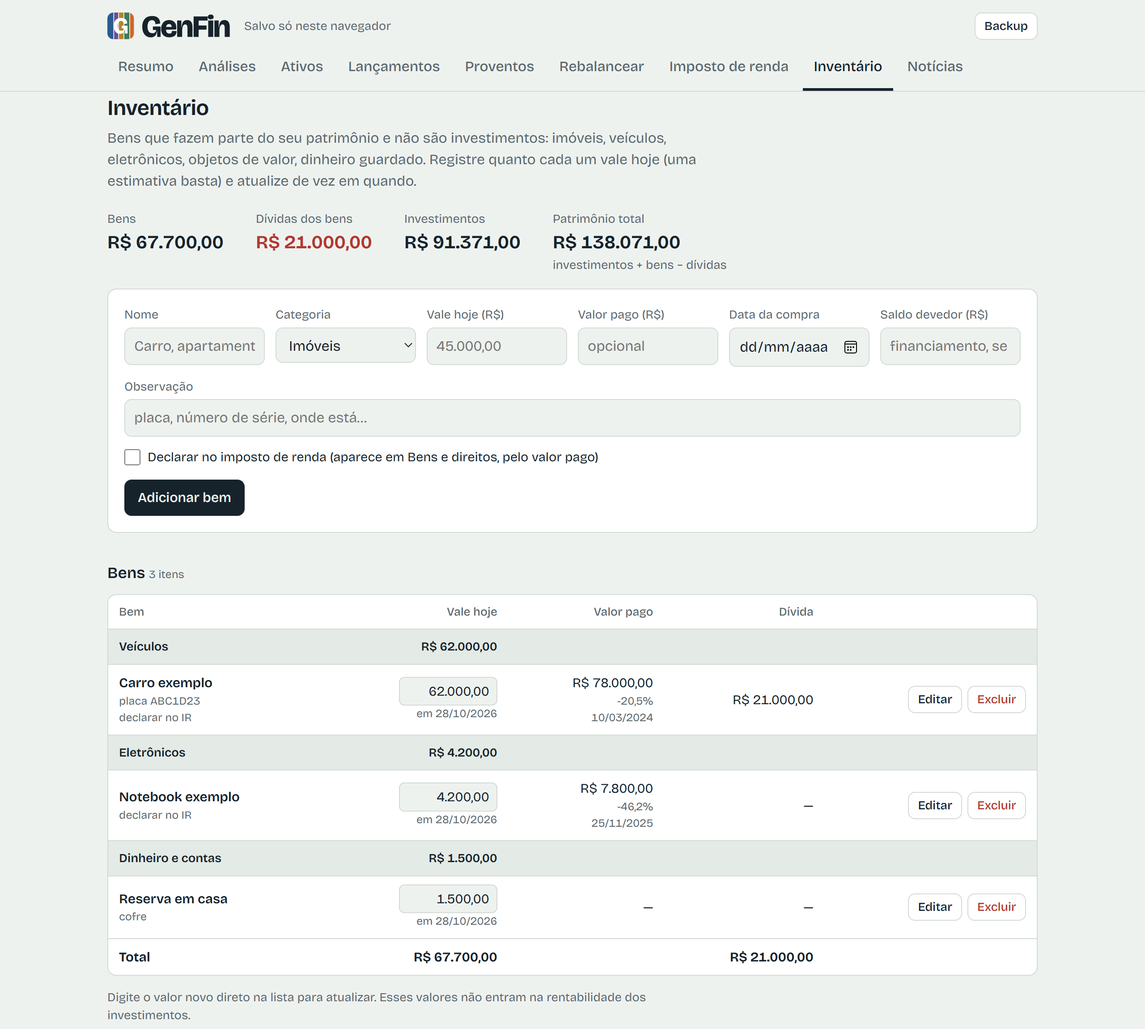
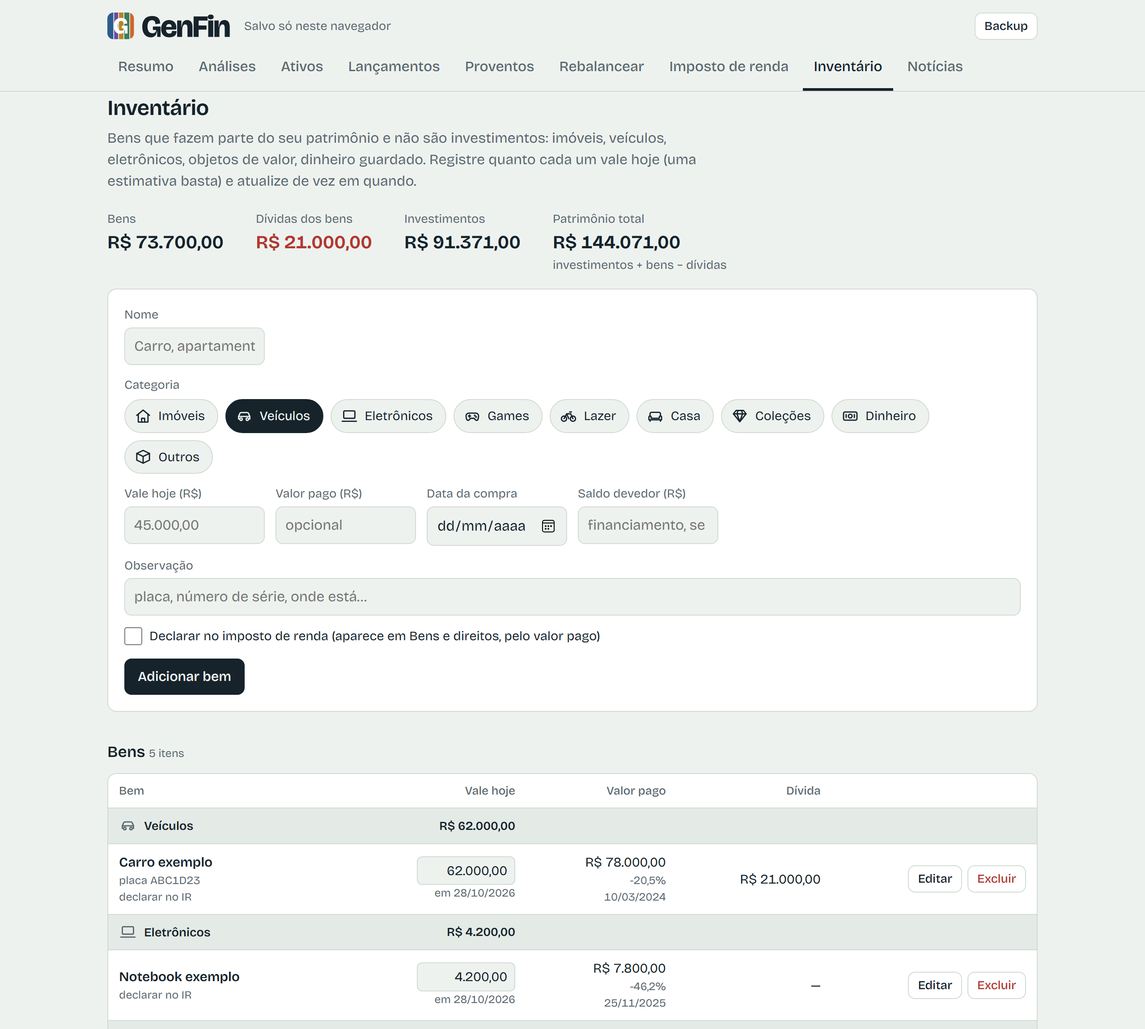
Ícones nas categorias do inventário e IA sem chave no aparelho
Inventário
- Ícone para cada categoria e duas novas: Videogames e jogos, Lazer e esporte
- Categoria escolhida por botões com ícone (nomes curtos), lembrando a última
- Cabeçalho de cada grupo com o ícone; caixa "declarar no IR" no tamanho certo

IA
- api/resumo.js: função da Vercel que resume a carteira pelo Groq com a chave
  na variável de ambiente GROQ_API_KEY; aceita só o formato de dadosParaIA,
  recusa valores em reais, instrução fixa no servidor, CORS só para o site e
  o app Android, não guarda nada
- O app usa a função quando não há chave própria (o app Android e o arquivo
  local chamam o endereço publicado); a chave própria continua opcional
- Sem GROQ_API_KEY configurada, avisa e abre a opção da chave própria
- 15 testes novos (138), incluindo tests/api.test.js

diff --git a/carteira.html b/carteira.html
@@ -141,8 +141,18 @@ tr.sel{background:var(--soft)}
 .imp-lista li{margin:6px 0}
 #dlg-importar select{border:1px solid var(--line);border-radius:6px;padding:4px 8px;background:var(--bg);color:var(--ink)}
 
+/* Inventário: categorias com ícone */
+.ic-bem{width:20px;height:20px;fill:none;stroke:currentColor;stroke-width:1.7;stroke-linecap:round;stroke-linejoin:round;flex:none}
+tr.grupo .ic-bem{vertical-align:-5px;margin-right:8px;color:var(--muted)}
+.chips-cat{grid-column:1/-1;border:0;padding:0;margin:0;display:flex;flex-wrap:wrap;gap:8px;min-width:0}
+.chips-cat legend{font-size:.85rem;color:var(--muted);padding:0;margin-bottom:6px}
+label.chip{position:relative;flex-direction:row;align-items:center;gap:7px;border:1px solid var(--line);border-radius:999px;
+  padding:7px 14px 7px 10px;background:var(--bg);color:var(--ink);font-size:.9rem;cursor:pointer;-webkit-tap-highlight-color:transparent}
+label.chip input{position:absolute;opacity:0;width:1px;height:1px;pointer-events:none}
+label.chip:has(input:checked){background:var(--ink);color:var(--bg);border-color:var(--ink)}
+label.chip:has(input:focus-visible){outline:2px solid var(--focus);outline-offset:2px}
 .marca-ir{flex-direction:row;align-items:center;gap:8px;margin-top:12px;font-size:.9rem;color:var(--ink)}
-.marca-ir input{width:18px;height:18px;margin:0}
+.marca-ir input{width:20px;height:20px;margin:0;padding:0;flex:none;accent-color:var(--ink)}
 
 /* Análises */
 .leituras{display:grid;gap:10px;max-width:760px}
@@ -1210,13 +1220,28 @@ async function modeloGroq(chave){
     { const m = ids.find(id=>p.test(id)); if(m) return m; }
   return ids.find(id=>!/whisper|guard|tts|embed|playai|compound|prompt/i.test(id)) || null;
 }
+// Sem chave própria, o resumo vem da função do GenFin na Vercel (que guarda a chave do Groq);
+// no app Android e no arquivo local, a página não está na Vercel, então usa o endereço publicado
+const SERVIDOR = "https://genfin-rose.vercel.app";
+const baseServidor = () => (!nativo() && /\.vercel\.app$/.test(location.hostname)) ? location.origin : SERVIDOR;
+let iaSemServidor = false;   // a função respondeu que não tem chave configurada: mostra a opção de colar a própria
+async function resumoPeloServidor(){
+  let r; try{ r = await fetch(baseServidor()+"/api/resumo", {method:"POST", headers:{"Content-Type":"application/json"}, body: JSON.stringify(dadosParaIA()), ...comPrazo()}); }
+  catch(e){ throw erroCot("rede"); }
+  let j = null; try{ j = await r.json(); }catch(e){}
+  if(r.status===503 && j && j.erro==="sem_chave"){ iaSemServidor = true; throw erroCot("semServidor"); }
+  if(r.status===429) throw erroCot("limite");
+  if(!r.ok || !j || !j.texto) throw erroCot("servico");
+  return {texto: String(j.texto).trim(), modelo: j.modelo || "Groq"};
+}
 async function gerarResumoIA(){
   if(gerandoIA) return;
-  const chave = lerLS(LS_GROQ); if(!chave){ toast("Cole a chave do Groq antes de gerar o resumo."); return; }
   if(demo){ toast("No modo exemplo os dados são fictícios; saia do exemplo para gerar o resumo."); return; }
+  const chave = lerLS(LS_GROQ);
   gerandoIA = true; if(abaAtual==="analises") render("analises");
   let res;
   try{
+    if(!chave){ res = Object.assign(await resumoPeloServidor(), {em: Date.now()}); gravarLS(LS_IA, JSON.stringify(res)); return; }
     const modelo = await modeloGroq(chave);
     if(!modelo) throw erroCot("servico");
     let r; try{
@@ -1231,7 +1256,8 @@ async function gerarResumoIA(){
     res = {texto: String(texto).trim(), modelo, em: Date.now()};
     gravarLS(LS_IA, JSON.stringify(res));
   }catch(e){
-    toast({chave:"O Groq recusou a chave. Confira a chave e cole de novo.", limite:"O Groq atingiu o limite do plano gratuito. Tente daqui a pouco.", rede:"Não foi possível acessar o Groq. Confira a internet."}[e.tipo] || "O Groq não respondeu como esperado. Tente de novo.");
+    toast({chave:"O Groq recusou a chave. Confira a chave e cole de novo.", limite:"O Groq atingiu o limite do plano gratuito. Tente daqui a pouco.", rede:"Não foi possível acessar a IA. Confira a internet.",
+      semServidor:"A IA do GenFin ainda não foi configurada. Você pode colar a sua própria chave do Groq abaixo."}[e.tipo] || "A IA não respondeu como esperado. Tente de novo.");
   }finally{ gerandoIA = false; if(abaAtual==="analises") render("analises"); }
 }
 // Texto da IA: escapado e com os tópicos "- " virando lista
@@ -1258,17 +1284,18 @@ function rAnalises(el){
 
   <h3>Resumo com IA</h3>
   <div class="card ia">
-    ${chave ? `<div class="cotbar"><button class="btn pri" data-act="gerar-ia"${gerandoIA?" disabled":""}>${gerandoIA?"Gerando resumo…":(ult?"Gerar de novo":"Gerar resumo")}</button>
+    ${!ult ? `<p class="nota" style="margin-top:0">Um texto curto escrito por IA a partir das leituras acima, pelo <a href="https://groq.com" target="_blank" rel="noopener noreferrer">Groq</a>, gratuito.</p>` : ""}
+    <div class="cotbar"><button class="btn pri" data-act="gerar-ia"${gerandoIA?" disabled":""}>${gerandoIA?"Gerando resumo…":(ult?"Gerar de novo":"Gerar resumo")}</button>
       <span class="nota">${ult ? `Gerado ${new Date(ult.em).toLocaleDateString("pt-BR")} às ${new Date(ult.em).toLocaleTimeString("pt-BR",{hour:"2-digit",minute:"2-digit"})}, modelo ${esc(ult.modelo)}` : "Leva alguns segundos."}</span></div>
-      ${ult ? `<div class="texto-ia">${textoIA(ult.texto)}</div><p class="nota">Texto gerado por IA a partir dos dados abaixo; pode conter erros. Confira antes de decidir qualquer coisa.</p>` : ""}`
-    : `<p class="nota" style="margin-top:0">Opcional: um texto curto escrito por IA a partir das leituras acima, pelo <a href="https://console.groq.com/keys" target="_blank" rel="noopener noreferrer">Groq</a>, que tem plano gratuito. Crie uma chave lá e cole aqui. Ela fica só neste navegador.</p>`}
-    <details class="chave"${chave?"":" open"}>
-      <summary>${chave?"Chave do Groq configurada":"Configurar a chave do Groq"}</summary>
+    ${ult ? `<div class="texto-ia">${textoIA(ult.texto)}</div><p class="nota">Texto gerado por IA a partir dos dados abaixo; pode conter erros. Confira antes de decidir qualquer coisa.</p>` : ""}
+    <details class="chave"${iaSemServidor && !chave ? " open" : ""}>
+      <summary>${chave?"Usando a sua chave do Groq":"Usar a minha própria chave do Groq (opcional)"}</summary>
+      <p class="nota">Sem chave própria, o resumo passa pelo servidor do GenFin, que já tem uma. Com a sua, criada em <a href="https://console.groq.com/keys" target="_blank" rel="noopener noreferrer">console.groq.com</a>, o app fala direto com o Groq. Ela fica só neste aparelho.</p>
       <div class="linha-chave"><input id="chave-groq" type="password" autocomplete="off" spellcheck="false" placeholder="${chave?"Cole uma nova chave para trocar":"Cole a chave aqui"}" aria-label="Chave do Groq">
         <button class="btn" data-act="salvar-groq">Salvar chave</button>${chave?`<button class="btn perigo" data-act="remover-groq" data-armar="Confirmar">Remover</button>`:""}</div>
     </details>
-    <details class="enviado"><summary>O que vai para o Groq</summary>
-      <p class="nota">Só percentuais, códigos dos ativos e as leituras na versão sem valores em reais. Quantidades, preços e o patrimônio não saem do aparelho.</p>
+    <details class="enviado"><summary>O que vai para a IA</summary>
+      <p class="nota">Só percentuais, códigos dos ativos e as leituras na versão sem valores em reais. Quantidades, preços, bens e o patrimônio não saem do aparelho. Sem chave própria, os dados passam pelo servidor do GenFin na Vercel, que repassa ao Groq e não guarda nada.</p>
       <pre>${esc(JSON.stringify(dadosParaIA(), null, 1))}</pre>
     </details>
   </div>`;
@@ -1703,17 +1730,31 @@ function rIR(el){
 /* ---------- Inventário ---------- */
 // Bens que fazem parte do patrimônio e não são investimentos. O valor é a estimativa de hoje;
 // o valor pago é o que entra na declaração do IR (bens e direitos vão pelo custo de aquisição).
+// ic: traços de um ícone 24x24 (mesmo estilo da barra de navegação)
 const CATEGORIAS_BEM = {
-  imovel:     { nome:"Imóveis",                      ir:"01 – Bens imóveis (código conforme o tipo: apartamento, casa, terreno…)" },
-  veiculo:    { nome:"Veículos",                     ir:"02 – Bens móveis, código 01 (veículo automotor terrestre)" },
-  eletronico: { nome:"Eletrônicos",                  ir:"02 – Bens móveis (outros)" },
-  casa:       { nome:"Móveis e eletrodomésticos",    ir:"02 – Bens móveis (outros)" },
-  valor:      { nome:"Joias, arte e coleções",       ir:"02 – Bens móveis (joia, quadro, objeto de arte ou de coleção)" },
-  dinheiro:   { nome:"Dinheiro e contas",            ir:"06 – Depósitos à vista e numerário" },
-  outro:      { nome:"Outros",                       ir:"Conforme o tipo do bem" }
+  imovel:     { nome:"Imóveis", curto:"Imóveis", ir:"01 – Bens imóveis (código conforme o tipo: apartamento, casa, terreno…)",
+                ic:'<path d="M3.5 11L12 4l8.5 7"/><path d="M5.5 9.5V20h13V9.5"/><path d="M10 20v-5h4v5"/>' },
+  veiculo:    { nome:"Veículos", curto:"Veículos", ir:"02 – Bens móveis, código 01 (veículo automotor terrestre)",
+                ic:'<path d="M4.5 16v-3.5l1.7-4a2 2 0 0 1 1.8-1.2h8a2 2 0 0 1 1.8 1.2l1.7 4V16"/><path d="M4.5 12.5h15"/><circle cx="7.8" cy="16.2" r="1.7"/><circle cx="16.2" cy="16.2" r="1.7"/>' },
+  eletronico: { nome:"Eletrônicos", curto:"Eletrônicos", ir:"02 – Bens móveis (outros)",
+                ic:'<rect x="4.5" y="5" width="15" height="10" rx="1.5"/><path d="M2.5 19h19"/>' },
+  games:      { nome:"Videogames e jogos", curto:"Games", ir:"02 – Bens móveis (outros)",
+                ic:'<path d="M7.5 8h9a4 4 0 0 1 3.9 4.9l-.7 3.2a2 2 0 0 1-3.4 1L14.5 15h-5l-1.8 2.1a2 2 0 0 1-3.4-1l-.7-3.2A4 4 0 0 1 7.5 8z"/><path d="M8.2 10.5v3M6.7 12h3"/><circle cx="15.3" cy="11.3" r=".5"/><circle cx="17" cy="13" r=".5"/>' },
+  lazer:      { nome:"Lazer e esporte", curto:"Lazer", ir:"02 – Bens móveis (outros)",
+                ic:'<circle cx="6" cy="15.5" r="3.5"/><circle cx="18" cy="15.5" r="3.5"/><path d="M6 15.5l3.5-6.5h5.5l3 6.5M9.5 9l3 6.5M13.5 6.5h2.5"/>' },
+  casa:       { nome:"Móveis e eletrodomésticos", curto:"Casa", ir:"02 – Bens móveis (outros)",
+                ic:'<path d="M5 11V9a2 2 0 0 1 2-2h10a2 2 0 0 1 2 2v2"/><path d="M3.5 17v-3.5a1.5 1.5 0 0 1 3 0V15h11v-1.5a1.5 1.5 0 0 1 3 0V17z"/><path d="M5 17v2M19 17v2"/>' },
+  valor:      { nome:"Joias, arte e coleções", curto:"Coleções", ir:"02 – Bens móveis (joia, quadro, objeto de arte ou de coleção)",
+                ic:'<path d="M7 4.5h10l3.5 4.5L12 19.5 3.5 9z"/><path d="M3.5 9h17M9.5 4.5L8.3 9l3.7 10.5L15.7 9l-1.2-4.5"/>' },
+  dinheiro:   { nome:"Dinheiro e contas", curto:"Dinheiro", ir:"06 – Depósitos à vista e numerário",
+                ic:'<rect x="3" y="6.5" width="18" height="11" rx="2"/><circle cx="12" cy="12" r="2.5"/><path d="M6.5 10v4M17.5 10v4"/>' },
+  outro:      { nome:"Outros", curto:"Outros", ir:"Conforme o tipo do bem",
+                ic:'<path d="M3.5 7.5L12 3.5l8.5 4v9L12 20.5l-8.5-4z"/><path d="M3.5 7.5L12 11.5l8.5-4M12 11.5v9"/>' }
 };
+const iconeBem = k => `<svg class="ic-bem" viewBox="0 0 24 24" aria-hidden="true">${(CATEGORIAS_BEM[k]||CATEGORIAS_BEM.outro).ic}</svg>`;
 const ORDEM_BENS = Object.keys(CATEGORIAS_BEM);
 let editandoBem = null;
+const LS_ULT_CAT = "genfin-ultima-categoria";   // o próximo bem já vem na categoria do último
 function totaisBens(){
   const bens = S.bens||[], valor = bens.reduce((s,b)=>s+(b.valor||0),0), dividas = bens.reduce((s,b)=>s+(b.divida||0),0);
   return {valor, dividas, liquido: valor-dividas};
@@ -1737,7 +1778,7 @@ function salvarBem(f){
   const atual = editandoBem && S.bens.find(b=>b.id===editandoBem);
   if(atual) Object.assign(atual, d, {valorEm: atual.valor!==d.valor ? hojeISO() : atual.valorEm});
   else S.bens.push(Object.assign({id:uid(), criado:Date.now(), valorEm:hojeISO()}, d));
-  const nome = d.nome; editandoBem = null;
+  const nome = d.nome; editandoBem = null; gravarLS(LS_ULT_CAT, d.categoria);
   salvar("bens"); render("inventario");
   const m = $("#bem-msg"); m.className = "ok"; m.textContent = `${nome} ${atual?"atualizado":"adicionado"}.`;
 }
@@ -1756,12 +1797,14 @@ function excluirBem(id){
 function rInventario(el){
   const bens = S.bens||[], t = totaisBens(), inv = calcular().total;
   const ed = editandoBem && bens.find(b=>b.id===editandoBem); if(!ed) editandoBem = null;
-  const opts = ORDEM_BENS.map(k=>`<option value="${k}"${ed&&ed.categoria===k?" selected":""}>${CATEGORIAS_BEM[k].nome}</option>`).join("");
+  // Categoria: botões com ícone (mais fáceis de tocar que uma lista), um grupo de rádio
+  const catSel = ed ? ed.categoria : (lerLS(LS_ULT_CAT) || "veiculo");
+  const opts = ORDEM_BENS.map(k=>`<label class="chip"><input type="radio" name="categoria" value="${k}"${catSel===k?" checked":""}>${iconeBem(k)}<span>${CATEGORIAS_BEM[k].curto}</span></label>`).join("");
   const val = (n, v) => ed ? esc(numInput(v)) : "";
   let linhas = "";
   for(const k of ORDEM_BENS){
     const grupo = bens.filter(b=>b.categoria===k).sort((a,b)=>b.valor-a.valor); if(!grupo.length) continue;
-    linhas += `<tr class="grupo"><td>${CATEGORIAS_BEM[k].nome}</td><td>${brl(grupo.reduce((s,b)=>s+b.valor,0))}</td><td></td><td></td><td></td></tr>`;
+    linhas += `<tr class="grupo"><td>${iconeBem(k)}${CATEGORIAS_BEM[k].nome}</td><td>${brl(grupo.reduce((s,b)=>s+b.valor,0))}</td><td></td><td></td><td></td></tr>`;
     for(const b of grupo){
       const varPct = b.custo>0 ? b.valor/b.custo-1 : null;
       linhas += `<tr${b.id===editandoBem?' class="sel"':""}>
@@ -1784,7 +1827,7 @@ function rInventario(el){
     ${ed?`<p class="editando-rot">Editando <strong>${esc(ed.nome)}</strong></p>`:""}
     <div class="campos">
       <label>Nome<input name="nome" autocomplete="off" placeholder="Carro, apartamento, notebook…" value="${ed?esc(ed.nome):""}"></label>
-      <label>Categoria<select name="categoria">${opts}</select></label>
+      <fieldset class="chips-cat"><legend>Categoria</legend>${opts}</fieldset>
       <label>Vale hoje (R$)<input name="valor" inputmode="decimal" placeholder="45.000,00" value="${val("valor", ed&&ed.valor)}"></label>
       <label>Valor pago (R$)<input name="custo" inputmode="decimal" placeholder="opcional" value="${ed&&ed.custo!=null?esc(numInput(ed.custo)):""}"></label>
       <label>Data da compra<input type="date" name="compra" value="${ed?esc(ed.compra||""):""}"></label>
@@ -1844,6 +1887,8 @@ function dadosExemplo(){
   s.bens = [
     {id:uid(), criado:1, nome:"Carro exemplo", categoria:"veiculo", valor:62000, valorEm:hojeISO(), custo:78000, compra:`${a-2}-03-10`, divida:21000, obs:"placa ABC1D23", declarar:true},
     {id:uid(), criado:2, nome:"Notebook exemplo", categoria:"eletronico", valor:4200, valorEm:hojeISO(), custo:7800, compra:`${a-1}-11-25`, divida:0, obs:"", declarar:true},
+    {id:uid(), criado:4, nome:"Console exemplo", categoria:"games", valor:3200, valorEm:hojeISO(), custo:4500, compra:`${a-1}-07-02`, divida:0, obs:"2 controles", declarar:false},
+    {id:uid(), criado:5, nome:"Bicicleta exemplo", categoria:"lazer", valor:2800, valorEm:hojeISO(), custo:3900, compra:`${a-2}-09-15`, divida:0, obs:"", declarar:false},
     {id:uid(), criado:3, nome:"Reserva em casa", categoria:"dinheiro", valor:1500, valorEm:hojeISO(), custo:null, compra:"", divida:0, obs:"cofre", declarar:false}
   ];
   const hj=new Date();

diff --git a/api/resumo.js b/api/resumo.js
@@ -1,0 +1,80 @@
+// Resumo da carteira com IA, do lado do servidor (função da Vercel), para não precisar colar a chave em cada aparelho.
+// A chave do Groq fica na variável de ambiente GROQ_API_KEY do projeto na Vercel; nada é guardado aqui.
+// Só aceita os dados que o app monta em dadosParaIA() (percentuais, códigos e leituras sem valores em reais)
+// e usa uma instrução fixa: não serve como IA genérica para quem descobrir o endereço.
+
+const ORIGENS = ["https://genfin-rose.vercel.app", "https://localhost", "http://localhost", "capacitor://localhost"];
+const TAMANHO_MAX = 20000;
+const INSTRUCAO = "Você ajuda uma pessoa física no Brasil a entender a própria carteira de investimentos. Responda em português do Brasil, em no máximo 6 tópicos curtos, cada um começando com \"- \". Explique o que os números mostram (concentração, distância das metas, desempenho contra o CDI e o Ibovespa, proventos, pontos de imposto de renda) e o que vale a pessoa verificar. Não recomende comprar ou vender ativos específicos, não faça previsão de preços e não invente dados que não estejam na mensagem. Os dados vêm só em percentuais, sem valores em reais.";
+
+const texto = (v, n = 120) => String(v ?? "").slice(0, n);
+const numero = v => (typeof v === "number" && Number.isFinite(v) ? Math.round(v * 10) / 10 : null);
+// Monta de novo só os campos esperados, com tamanhos limitados: o que chegar fora disso é descartado
+function limpar(d) {
+  if (!d || typeof d !== "object" || !Array.isArray(d.classes) || !Array.isArray(d.posicoes) || !Array.isArray(d.leituras)) return null;
+  return {
+    data: texto(d.data, 10),
+    classes: d.classes.slice(0, 10).map(c => ({ classe: texto(c.classe, 30), carteira_pct: numero(c.carteira_pct), meta_pct: numero(c.meta_pct) })),
+    posicoes: d.posicoes.slice(0, 15).map(p => ({ ativo: texto(p.ativo, 40), classe: texto(p.classe, 30), peso_pct: numero(p.peso_pct), resultado_pct: numero(p.resultado_pct) })),
+    resultado_sobre_aportado_pct: numero(d.resultado_sobre_aportado_pct),
+    contra_cdi_pct: numero(d.contra_cdi_pct),
+    contra_ibovespa_pct: numero(d.contra_ibovespa_pct),
+    desde: texto(d.desde, 10),
+    leituras: d.leituras.slice(0, 30).map(l => texto(l, 240))
+  };
+}
+
+let modeloGuardado = null;
+async function escolherModelo(chave) {
+  if (modeloGuardado) return modeloGuardado;
+  const r = await fetch("https://api.groq.com/openai/v1/models", { headers: { Authorization: "Bearer " + chave } });
+  if (!r.ok) throw Object.assign(new Error("modelos"), { status: r.status });
+  const ids = ((await r.json()).data || []).map(m => m.id);
+  for (const p of [/^openai\/gpt-oss-120b$/, /^llama-3\.3-70b/, /llama-4-maverick/, /^qwen/, /llama/]) {
+    const m = ids.find(id => p.test(id)); if (m) return (modeloGuardado = m);
+  }
+  return (modeloGuardado = ids.find(id => !/whisper|guard|tts|embed|playai|compound|prompt/i.test(id)) || null);
+}
+
+module.exports = async (req, res) => {
+  const origem = req.headers.origin || "";
+  if (ORIGENS.includes(origem) || /^https:\/\/genfin-[a-z0-9-]+\.vercel\.app$/.test(origem)) {
+    res.setHeader("Access-Control-Allow-Origin", origem);
+    res.setHeader("Vary", "Origin");
+  }
+  res.setHeader("Access-Control-Allow-Methods", "POST, OPTIONS");
+  res.setHeader("Access-Control-Allow-Headers", "Content-Type");
+  res.setHeader("Cache-Control", "no-store");
+  if (req.method === "OPTIONS") return res.status(204).end();
+  if (req.method !== "POST") return res.status(405).json({ erro: "metodo" });
+
+  const chave = process.env.GROQ_API_KEY;
+  if (!chave) return res.status(503).json({ erro: "sem_chave" });
+
+  let corpo = req.body;
+  if (typeof corpo === "string") { try { corpo = JSON.parse(corpo); } catch (e) { corpo = null; } }
+  const dados = limpar(corpo);
+  const json = dados && JSON.stringify(dados);
+  if (!dados || json.length > TAMANHO_MAX) return res.status(400).json({ erro: "dados" });
+  if (/R\$/.test(json)) return res.status(400).json({ erro: "valores_em_reais" });   // o app nunca manda valores em reais
+
+  try {
+    const modelo = await escolherModelo(chave);
+    if (!modelo) return res.status(502).json({ erro: "servico" });
+    const r = await fetch("https://api.groq.com/openai/v1/chat/completions", {
+      method: "POST",
+      headers: { Authorization: "Bearer " + chave, "Content-Type": "application/json" },
+      body: JSON.stringify({ model: modelo, temperature: 0.3, max_tokens: 900,
+        messages: [{ role: "system", content: INSTRUCAO }, { role: "user", content: "Dados da carteira:\n" + json }] })
+    });
+    if (r.status === 401) return res.status(502).json({ erro: "chave_invalida" });
+    if (r.status === 429) return res.status(429).json({ erro: "limite" });
+    if (!r.ok) return res.status(502).json({ erro: "servico" });
+    const j = await r.json(), resposta = j.choices && j.choices[0] && j.choices[0].message && j.choices[0].message.content;
+    if (!resposta) return res.status(502).json({ erro: "servico" });
+    return res.status(200).json({ texto: String(resposta).trim().slice(0, 6000), modelo });
+  } catch (e) {
+    if (e.status === 401) return res.status(502).json({ erro: "chave_invalida" });
+    return res.status(502).json({ erro: "servico" });
+  }
+};

diff --git a/tests/api.test.js b/tests/api.test.js
@@ -1,0 +1,61 @@
+// Testes da função da Vercel api/resumo.js, com o Groq simulado.
+// Uso: npm test (roda junto com os testes do app)
+const path = require("path");
+let falhas = 0; const ok = (c, m) => { if (!c) { falhas++; console.log("FALHOU:", m); } else console.log("ok:", m); };
+
+function carregar() { delete require.cache[require.resolve("../api/resumo.js")]; return require("../api/resumo.js"); }
+function chamar(fn, {method = "POST", origin = "https://genfin-rose.vercel.app", body} = {}) {
+  return new Promise(resolve => {
+    const res = { headers: {}, statusCode: 200,
+      setHeader(k, v) { this.headers[k.toLowerCase()] = v; },
+      status(c) { this.statusCode = c; return this; },
+      json(o) { this.body = o; resolve(this); return this; },
+      end() { resolve(this); return this; } };
+    fn({ method, headers: { origin }, body }, res);
+  });
+}
+const dados = { data: "2026-10-28", classes: [{ classe: "Ações", carteira_pct: 40, meta_pct: 30 }], posicoes: [{ ativo: "PETR4", classe: "Ações", peso_pct: 40, resultado_pct: 12.3 }],
+  resultado_sobre_aportado_pct: 8, contra_cdi_pct: -1.2, contra_ibovespa_pct: null, desde: "2026-01-05", leituras: ["PETR4 representa 40% da carteira"] };
+
+(async () => {
+  let pedidos = [];
+  global.fetch = async (url, op = {}) => {
+    pedidos.push({ url, op });
+    if (url.endsWith("/models")) return { ok: true, status: 200, json: async () => ({ data: [{ id: "whisper-large-v3" }, { id: "openai/gpt-oss-120b" }] }) };
+    return { ok: true, status: 200, json: async () => ({ choices: [{ message: { content: "- Resumo." } }] }) };
+  };
+
+  delete process.env.GROQ_API_KEY;
+  let r = await chamar(carregar(), { body: dados });
+  ok(r.statusCode === 503 && r.body.erro === "sem_chave" && pedidos.length === 0, "sem GROQ_API_KEY responde 503 sem chamar o Groq");
+
+  process.env.GROQ_API_KEY = "gsk-servidor";
+  const fn = carregar();
+  r = await chamar(fn, { method: "OPTIONS", origin: "https://localhost" });
+  ok(r.statusCode === 204 && r.headers["access-control-allow-origin"] === "https://localhost", "pré-requisição do app Android é aceita");
+  r = await chamar(fn, { method: "OPTIONS", origin: "https://site-qualquer.com" });
+  ok(!r.headers["access-control-allow-origin"], "outra origem não recebe permissão de CORS");
+  r = await chamar(fn, { method: "GET" });
+  ok(r.statusCode === 405, "só aceita POST");
+  r = await chamar(fn, { body: { pergunta: "me escreva um poema" } });
+  ok(r.statusCode === 400 && pedidos.length === 0, "rejeita o que não é o formato da carteira");
+  r = await chamar(fn, { body: { ...dados, leituras: ["patrimônio de R$ 100.000"] } });
+  ok(r.statusCode === 400 && r.body.erro === "valores_em_reais", "rejeita valores em reais");
+
+  pedidos = [];
+  r = await chamar(fn, { body: JSON.stringify({ ...dados, extra: "campo estranho", posicoes: [{ ativo: "PETR4", peso_pct: 40, segredo: "x" }] }) });
+  const enviado = JSON.parse(pedidos.find(p => p.url.endsWith("/chat/completions")).op.body);
+  ok(r.statusCode === 200 && r.body.texto === "- Resumo." && r.body.modelo === "openai/gpt-oss-120b", "resume e devolve o texto e o modelo");
+  ok(enviado.messages[0].role === "system" && /Não recomende comprar ou vender/.test(enviado.messages[0].content), "instrução fixa no servidor");
+  ok(!/campo estranho|segredo/.test(enviado.messages[1].content) && pedidos.find(p => p.url.endsWith("/chat/completions")).op.headers.Authorization === "Bearer gsk-servidor", "repassa só os campos esperados, com a chave do servidor");
+
+  global.fetch = async url => url.endsWith("/models") ? { ok: true, status: 200, json: async () => ({ data: [{ id: "openai/gpt-oss-120b" }] }) } : { ok: false, status: 429, json: async () => ({}) };
+  r = await chamar(carregar(), { body: dados });
+  ok(r.statusCode === 429 && r.body.erro === "limite", "limite do Groq vira 429");
+  global.fetch = async () => ({ ok: false, status: 401, json: async () => ({}) });
+  r = await chamar(carregar(), { body: dados });
+  ok(r.statusCode === 502 && r.body.erro === "chave_invalida", "chave do servidor recusada vira 502");
+
+  console.log(falhas ? falhas + " falha(s)" : "todos passaram");
+  if (falhas) process.exitCode = 1;
+})().catch(e => { console.error("ERRO:", e); process.exit(1); });

diff --git a/tests/carteira.test.js b/tests/carteira.test.js
@@ -341,7 +341,7 @@ ok(guardado.modelo==="openai/gpt-oss-120b" && /PETR4/.test(guardado.texto), "gua
 const html = textoIA(guardado.texto);
 ok(/<ul><li>Concentração: PETR4 pesa muito\\.<\\/li><li>Renda fixa abaixo da meta\\.<\\/li><\\/ul><p>Texto final &lt;script&gt;x&lt;\\/script&gt;<\\/p>/.test(html), "texto da IA vira lista e é escapado: "+html);
 const elA2 = fakeEl(); rAnalises(elA2);
-ok(/Atenção/.test(elA2.innerHTML) && /Gerar de novo/.test(elA2.innerHTML) && /O que vai para o Groq/.test(elA2.innerHTML), "aba Análises mostra leituras, IA e o que é enviado");
+ok(/Atenção/.test(elA2.innerHTML) && /Gerar de novo/.test(elA2.innerHTML) && /O que vai para a IA/.test(elA2.innerHTML), "aba Análises mostra leituras, IA e o que é enviado");
 ok(!JSON.stringify(S).includes("gsk-boa"), "a chave do Groq não vai para o backup");
 mem[LS_GROQ] = "";
 
@@ -424,6 +424,18 @@ window.Capacitor.Plugins.Share.share = async ()=>{ throw new Error("Share cancel
 await baixar("x.json", "{}");
 ok(/cancelado/.test($("#backup-msg").textContent), "cancelar o compartilhamento não mostra erro");
 delete window.Capacitor;
+
+// resumo com IA sem chave própria: vai pela função do GenFin na Vercel
+mem[LS_GROQ] = ""; delete mem[LS_IA]; iaSemServidor = false; avisos2 = []; let pedidoServ = null;
+globalThis.__fetch = (url, op={}) => { pedidoServ = {url, corpo: JSON.parse(op.body||"null")}; return resp(503, {erro:"sem_chave"}); };
+await gerarResumoIA();
+ok(pedidoServ && pedidoServ.url==="https://genfin-rose.vercel.app/api/resumo" && Array.isArray(pedidoServ.corpo.leituras) && !/R\\$/.test(JSON.stringify(pedidoServ.corpo)), "sem chave, chama a função do GenFin com os dados sem reais: "+(pedidoServ&&pedidoServ.url));
+ok(iaSemServidor && /ainda não foi configurada/.test(avisos2[0]||"") && !mem[LS_IA] && gerandoIA===false, "servidor sem chave: avisa e oferece a chave própria");
+globalThis.__fetch = () => resp(200, {texto:"- Tudo certo por aqui.", modelo:"openai/gpt-oss-120b"});
+await gerarResumoIA();
+ok(JSON.parse(mem[LS_IA]||"{}").texto==="- Tudo certo por aqui.", "resumo pelo servidor é guardado");
+globalThis.__fetch = () => resp(429, {erro:"limite"}); avisos2 = [];
+await gerarResumoIA(); ok(/limite/.test(avisos2[0]||""), "limite do servidor avisa");
 
 // números no jeito brasileiro: ponto como milhar quando o formato é de milhar
 ok([["78.000",78000],["1.234.567",1234567],["62.000,00",62000],["38.50",38.5],["0.005",0.005],["38,50",38.5],["R$ 45.000",45000]].every(([s,v])=>parseNum(s)===v), "ponto de milhar sem vírgula é milhar; decimal com ponto continua decimal");

diff --git a/README.md b/README.md
@@ -45,13 +45,13 @@ Preço médio, alocação, proventos, rebalanceamento e imposto de renda para qu
 | | |
 |---|---|
 | 📊 **Resumo** | Patrimônio, valorização em aberto, lucro realizado, proventos e resultado sobre o total aportado. Alocação atual comparada com a meta, gráfico de evolução e comparação com o CDI e o Ibovespa. |
-| 🔎 **Análises** | Leituras automáticas feitas no aparelho: concentração, distância das metas, cotações antigas, limites de isenção e DARF do mês, desempenho contra o CDI, proventos e lembrete de backup. Resumo opcional escrito por IA (Groq, plano gratuito). |
+| 🔎 **Análises** | Leituras automáticas feitas no aparelho: concentração, distância das metas, cotações antigas, limites de isenção e DARF do mês, desempenho contra o CDI, proventos e lembrete de backup. Resumo escrito por IA (Groq, gratuito), sem precisar de chave no aparelho. |
 | 💹 **Ativos e cotações** | Posição por classe com quantidade, preço médio, valor de mercado, resultado e peso na carteira. Cotações automáticas de ações, ETFs, FIIs e cripto; renda fixa e correções, à mão. |
 | 🧾 **Lançamentos** | Compras e vendas com taxas da nota de corretagem, ou importadas do extrato da B3. Aplicações e resgates de renda fixa. Editar e excluir, sempre impedindo vendas maiores que o saldo, inclusive em datas retroativas. |
 | 💰 **Proventos** | Dividendos, JCP e rendimentos de FIIs, digitados ou importados da B3, com gráfico dos últimos 12 meses e rendimento sobre o custo por ativo. |
 | ⚖ **Rebalancear** | Metas por classe e sugestão de como dividir um novo aporte para se aproximar delas, só com compras. |
 | 🦁 **Imposto de renda** | Apuração mensal com isenções, compensação de prejuízo e DARF; bens e direitos em 31/12; proventos do ano separados por tipo. |
-| 📦 **Inventário** | Bens que não são investimentos (imóveis, veículos, eletrônicos, objetos de valor, dinheiro guardado), com valor estimado, valor pago e financiamento. Mostra o patrimônio total e leva os bens marcados para Bens e direitos do IR. |
+| 📦 **Inventário** | Bens que não são investimentos (imóveis, veículos, eletrônicos, videogames, lazer e esporte, móveis, coleções, dinheiro guardado), cada categoria com seu ícone, com valor estimado, valor pago e financiamento. Mostra o patrimônio total e leva os bens marcados para Bens e direitos do IR. |
 | 📰 **Notícias** | Atalhos para o Google Notícias e o Status Invest de cada ativo. |
 
 Cinco classes de ativo: **ações**, **ETFs**, **FIIs**, **renda fixa** e **cripto**.
@@ -145,7 +145,7 @@ flowchart LR
 
 - **Sempre no navegador**, na chave `carteira-v1` do `localStorage`. Fora do claude.ai, a carteira não sai do seu computador. Para as cotações, só os **códigos** dos ativos (como `PETR4` ou `BTC`) vão para a brapi e o Mercado Bitcoin; quantidades e valores nunca são enviados.
 - **As chaves da brapi e do Groq** ficam só no navegador, separadas da carteira. Elas não entram no backup nem vão para a conta.
-- **Resumo com IA (opcional):** só vai para o [Groq](https://console.groq.com) o que aparece em "O que vai para o Groq", na aba Análises: percentuais, códigos dos ativos e as leituras escritas sem valores em reais. Quantidades, preços e o patrimônio não saem do aparelho. O app pede à IA que explique os números e não recomende compra ou venda.
+- **Resumo com IA:** só vai para a IA o que aparece em "O que vai para a IA", na aba Análises: percentuais, códigos dos ativos e as leituras escritas sem valores em reais. Quantidades, preços e o patrimônio não saem do aparelho. Sem chave própria, os dados passam pela função `api/resumo.js` do GenFin na Vercel, que guarda a chave do Groq na variável de ambiente `GROQ_API_KEY`, aceita só esse formato de dados (e recusa valores em reais), usa uma instrução fixa e não guarda nada. Quem preferir pode colar a própria chave do Groq no app, que então fala direto com ele. A instrução pede que a IA explique os números e não recomende compra ou venda.
 - **No claude.ai**, também na conta do usuário, em quatro documentos (`carteira`, `lancamentos`, `proventos` e `historico`). Cada salvamento leva data e hora. Ao abrir, o lado mais recente vence, para não perder alterações feitas sem conexão.
 - **Backup:** o botão no topo exporta tudo em `.json`, exporta os lançamentos em `.csv` e restaura um backup. Os arquivos exportados estão no `.gitignore`, para não irem parar no repositório por engano.
 
@@ -186,11 +186,13 @@ Operações comuns de pessoa física, sem day trade:
 ├── sw.js                  # service worker: abre sem internet
 ├── icons/                 # ícones PNG do app instalado
 ├── vercel.json            # rota / → carteira.html e cabeçalhos
+├── api/resumo.js          # função da Vercel: resumo com IA pelo Groq
 ├── capacitor.config.json  # app Android: nome, id e barras do sistema
 ├── assets/                # ícones-fonte do app Android (camadas do ícone adaptativo)
 ├── .github/workflows/     # compila e publica o APK
 ├── tests/
-│   └── carteira.test.js   # testes da lógica, com um DOM falso
+│   ├── carteira.test.js   # testes da lógica, com um DOM falso
+│   └── api.test.js        # testes da função de IA, com o Groq simulado
 ├── scripts/
 │   ├── capturas.sh        # gera as imagens de docs/img
 │   ├── icones.sh          # gera os PNGs de icons/ e assets/
